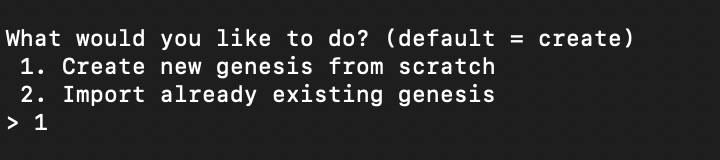
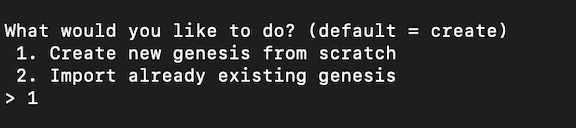
Editing README.md

diff --git a/.ipynb_checkpoints/README-checkpoint.md b/.ipynb_checkpoints/README-checkpoint.md
@@ -33,14 +33,24 @@ Once the command is complete, make sure to backup public and private keys.
 
 ![](Screenshots/genesis1.png)
 
-2.	Create a new network by typing its name as a command. In this project, we are creating the Hurricane network.
-<genesis screen2> 
-3.	In the wizard, we pick 2 to “Configure new genesis”
-<genesis screen3>
-4.	Then pick 1 to “Create new genesis from scratch”
-<genesis screen4>
-5.	Since we are creating Proof of Authority network, we would pick 2 in the next prompt and choose the default 15-second timeframe for the block by hitting enter
-<genesis screen5>
-6.	Now, let’s get back to our wallet addresses withing the nodes and copy them to seal the accounts (leave out 0x part)
-<genesis screen6>
+2. Create a new network by typing its name as a command. In this project, we are creating the Hurricane network.
+
+![](Screenshots/genesis2.png)
+
+3. In the wizard, pick 2 to “Configure new genesis”.
+
+![](Screenshots/genesis3.png)
+
+4. Pick 1 to “Create new genesis from scratch”.
+
+![](Screenshots/genesis4.png)
+
+5. Since we are creating Proof of Authority network, pick 2 in the next prompt and choose the default 15-second timeframe for the block by hitting enter.
+
+![](Screenshots/genesis5.png)
+
+6. Now, let’s get back to our wallet addresses withing the nodes and copy them to seal the accounts (leave out 0x part).
+
+![](Screenshots/genesis6.png)
+
 <genesis screen7>

diff --git a/README.md b/README.md
@@ -33,14 +33,24 @@ Once the command is complete, make sure to backup public and private keys.
 
 ![](Screenshots/genesis1.png)
 
-2.	Create a new network by typing its name as a command. In this project, we are creating the Hurricane network.
-<genesis screen2> 
-3.	In the wizard, we pick 2 to “Configure new genesis”
-<genesis screen3>
-4.	Then pick 1 to “Create new genesis from scratch”
-<genesis screen4>
-5.	Since we are creating Proof of Authority network, we would pick 2 in the next prompt and choose the default 15-second timeframe for the block by hitting enter
-<genesis screen5>
-6.	Now, let’s get back to our wallet addresses withing the nodes and copy them to seal the accounts (leave out 0x part)
-<genesis screen6>
+2. Create a new network by typing its name as a command. In this project, we are creating the Hurricane network.
+
+![](Screenshots/genesis2.png)
+
+3. In the wizard, pick 2 to “Configure new genesis”.
+
+![](Screenshots/genesis3.png)
+
+4. Pick 1 to “Create new genesis from scratch”.
+
+![](Screenshots/genesis4.png)
+
+5. Since we are creating Proof of Authority network, pick 2 in the next prompt and choose the default 15-second timeframe for the block by hitting enter.
+
+![](Screenshots/genesis5.png)
+
+6. Now, let’s get back to our wallet addresses withing the nodes and copy them to seal the accounts (leave out 0x part).
+
+![](Screenshots/genesis6.png)
+
 <genesis screen7>
